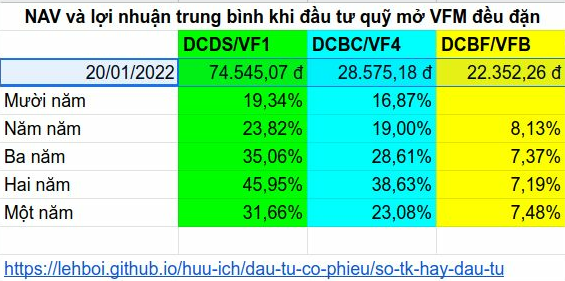
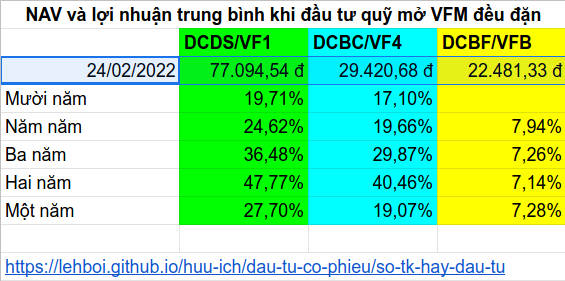
update periodically

diff --git a/kinh-nghiem/linh-tinh/lau-nha.html b/kinh-nghiem/linh-tinh/lau-nha.html
@@ -302,19 +302,21 @@ data-ad-slot="5275186684">
   <div overflow=""></div>
 </amp-ad>
 
-<h3>Cây-lau-nhà công-nghiệp</h3>
-<div class="flright"><amp-img alt="cây-lau-nhà công-nghiệp" src="/images/cay-lau-chu-nhat.webp" width="400" height="400" layout="responsive"></amp-img></div>
-<p>Ở các nơi công-cộng thì thường gặp cây-lau-nhà kiểu khác, được gọi là cây-lau-nhà công-nghiệp.
+<h3>Cây-lau-nhà chữ-nhật</h3>
+<div class="flright"><amp-img alt="cây-lau-nhà chữ-nhật" src="/images/cay-lau-chu-nhat.webp" width="400" height="400" layout="responsive"></amp-img></div>
+<p>Ở các nơi công-cộng thì thường gặp cây-lau-nhà kiểu khác, được gọi là cây-lau-nhà công-nghiệp, hoặc cây-lau-nhà chữ-nhật.
 <br>Kiểu này gắn miếng giẻ-lau hình-chữ-nhật, hai đầu giẻ-lau có thêm một lớp vải thứ hai tạo thành hai cái túi sâu khoảng tám phân. Mặt giẻ-lau có nhiều sợi vải ngắn trông giống đám san-hô nên kiểu dụng-cụ lau-nhà này còn được gọi là cây-lau-nhà san-hô. Cán cây-lau-nhà kiểu này gắn vào một miếng thép hình-chữ-nhật bằng hai khớp-bản-lề để nghiêng được đủ mọi hướng. Một miếng thép hình-chữ-nhật thứ hai nhỏ hơn gắn với miếng thép thứ nhất theo kiểu bản-lề.
-<br>Việc gắn và tháo giẻ-lau ở cây-lau-nhà này rất dễ. Để gắn giẻ-lau, trải miếng giẻ-lau xuống đất, cầm cây-lau-nhà sao cho hai miếng thép gập một góc vừa đủ cho đầu mỗi miếng thép chui vào miệng túi ở một đầu của giẻ-lau, ấn cán cây-lau-nhà xuống thì hai miếng thép sẽ vào khớp thẳng hàng với nhau, không tự gập góc được và giữ giẻ-lau chắc chắn. Để tháo giẻ-lau thì dùng chân đạp lên đầu giẻ-lau bên miếng thép nhỏ, kéo cán cây-lau-nhà lên thì hai miếng thép sẽ gập góc với nhau và rút ra khỏi hai cái túi của giẻ-lau.
-<br>Việc gắn và tháo giẻ-lau nhanh chóng là ưu-điểm để dùng cây-lau-nhà kiểu này ở nơi công cộng. Nhân-viên vệ-sinh đem theo nhiều miếng giẻ-lau đủ để lau sạch một diện-tích lớn, các miếng giẻ-lau đã thấm nước và vắt vừa đủ để sẵn-sàng lau, nhân-viên vệ-sinh lần lượt dùng từng miếng giẻ-lau để lau hết diện-tích sàn, sau đó đem tất-cả những giẻ-lau dơ đi giặt chung một lượt.
-<br>Có thể thấy ưu-điểm của cây-lau-nhà công-nghiệp là mọi phần của sàn-nhà đều sạch như nhau vì đều được lau bằng những miếng giẻ-lau đã được giặt cùng một lượt. Những nơi công-cộng, dùng nhiều giẻ-lau thì có thể giặt giẻ-lau bằng máy-giặt để đỡ tốn sức người. Trong nhà ở gia-đình, chỉ cần khoảng năm tới mười miếng giẻ-lau để lau cả nhà thì có thể giặt bằng tay nếu không muốn dùng máy-giặt.</p>
+<br>Việc gắn và tháo giẻ-lau ở cây-lau-nhà này rất dễ. Để gắn giẻ-lau, trải miếng giẻ-lau xuống đất, cầm cây-lau-nhà sao cho hai miếng thép gập một góc vừa đủ cho đầu mỗi miếng thép chui vào miệng túi ở một đầu của giẻ-lau, ấn cán cây-lau-nhà xuống thì hai miếng thép sẽ vào khớp thẳng hàng với nhau, không tự gập góc được và giữ giẻ-lau chắc chắn. Để tháo giẻ-lau thì dùng chân đạp lên đầu giẻ-lau bên miếng thép nhỏ, kéo cán cây-lau-nhà lên thì hai miếng thép sẽ gập góc với nhau và rút ra khỏi hai cái túi của giẻ-lau. Một kiểu gắn giẻ-lau khác là dùng hai lớp velcro để giẻ lau dính vào đầu cây-lau-nhà.
+<br>Việc gắn và tháo giẻ-lau nhanh chóng là ưu-điểm để dùng cây-lau-nhà kiểu này ở nơi công-cộng. Nhân-viên vệ-sinh đem theo nhiều miếng giẻ-lau đủ để lau sạch một diện-tích lớn, các miếng giẻ-lau đã thấm nước và vắt vừa đủ để sẵn-sàng lau, nhân-viên vệ-sinh lần lượt dùng từng miếng giẻ-lau để lau hết diện-tích sàn, sau đó đem tất-cả những giẻ-lau dơ đi giặt chung một lượt.
+<br>Có thể thấy ưu-điểm của cây-lau-nhà chữ-nhật là mọi phần của sàn-nhà đều sạch như nhau vì đều được lau bằng những miếng giẻ-lau đã được giặt cùng một lượt. Những nơi công-cộng, dùng nhiều giẻ-lau thì có thể giặt giẻ-lau bằng máy-giặt để đỡ tốn sức người. Trong nhà ở gia-đình, chỉ cần khoảng năm tới mười miếng giẻ-lau để lau cả nhà thì có thể giặt bằng tay nếu không muốn dùng máy-giặt.</p>
+<p>Gần-đây có một loại giẻ-lau được làm từ sợi microfiber, được giới-thiệu là <a href="dungcuvesinh.com/gioi-thieu/microfiber-la-gi-khac-biet-voi-cotton/" target='_blank'>lau sạch hơn loại giẻ-lau làm từ sợi cotton</a>.</p>
 
-<p>Để lau-nhà tôi ở sao cho mọi phần sạch đều nhau thì tôi đang dùng nhiều cây-lau-nhà kiểu ly-tâm. Nhà tôi có diện tích 126 mét vuông, tôi dùng năm cây-lau-nhà và một cái xô ly-tâm. Tiếp theo đây tôi viết chi tiết cách lau này.</p>
-
-<h2>Dùng nhiều cây-lau-nhà ly-tâm để lau-nhà sạch đều</h2>
-<h3 id="pha">Pha nước-lau-sàn</h3>
-<p>Nước-lau-sàn là một loại chất tẩy rửa với tác-dụng chính là làm cho bụi bẩn dễ rời khỏi sàn nhà, tác-dụng phụ là để lại mùi thơm một lúc sau khi lau.</p>
+<h2>Lau-nhà sao-cho sạch đều</h2>
+<p>Nhà tôi có diện tích 126 mét vuông.</p>
+<h3>Dùng nhiều cây-lau-nhà ly-tâm</h3>
+<p>Để lau-nhà tôi ở sao cho mọi phần sạch đều nhau thì tôi đang dùng nhiều cây-lau-nhà kiểu ly-tâm. Tôi dùng năm cây-lau-nhà và một cái xô ly-tâm. Tiếp theo đây tôi viết chi tiết cách lau này.</p>
+<h4 id="pha">Pha nước-lau-sàn</h4>
+<p>Nước-lau-sàn là một loại chất tẩy rửa với tác-dụng chính là làm cho bụi bẩn dễ rời khỏi sàn-nhà, tác-dụng phụ là để lại mùi thơm một lúc sau khi lau.</p>
 <p>Đọc kỹ hướng-dẫn-sử-dụng in trên các chai hay bịch nước-lau-sàn ta sẽ thấy những điều không hợp-lý. Nguyên văn một lời hướng-dẫn-sử-dụng như sau: "Hoà một nắp đầy nước-lau-sàn vào nửa xô nước (loại xô 5 lít)."
 <br>Lời hướng-dẫn trên không chính-xác vì cái xô năm lít rất nhỏ, nó sẽ là một cái xô tròn cao khoảng 19 phân và đường kính đáy khoảng 19 phân. Không thể dùng cái xô nhỏ như vậy để lau-nhà với các cây-lau-nhà, cũng rất khó dùng khi lau-nhà bằng tay và giẻ-lau. Một điều không hợp-lý nữa là nửa xô năm lít thì quá ít nước.
 <br>Không chính-xác là một lỗi rất thường gặp ở các sản-phẩm thông-dụng ở Việt-Nam. Lời hướng-dẫn-sử-dụng trên được in trên nhãn của hai hiệu nước-lau-sàn của hai công-ty khác nhau, một công-ty đa-quốc-gia và một công-ty nội-địa, đây là trường-hợp copy bài của bạn 😄.</p>
@@ -331,25 +333,35 @@ data-ad-slot="5275186684">
   <div overflow=""></div>
 </amp-ad>
 
-<h3 id="lau">Lau-nhà một lần</h3>
+<h4 id="lau">Lau-nhà một lần</h4>
 <p><b>Tại-sao tôi chỉ dùng có năm lít nước để lau-nhà?</b>
 <br>Lượng nước đó vẫn còn dư khoảng một nửa sau khi thấm ướt giẻ-lau của năm cây-lau-nhà. Với cách lau-nhà tôi sắp viết ra dưới đây thì lượng nước còn dư lại trong xô sau khi thấm ướt các giẻ-lau sẽ không có tác-dụng làm sạch sàn-nhà. Nếu tôi dùng nhiều nước-máy hơn thì tôi phải pha nhiều nước-lau-sàn hơn theo tỷ-lệ, như vậy thì phí nước-lau-sàn, nước-lau-sàn đổ xuống cống nhiều hơn sẽ tốn nhiều công hơn để xử-lý.</p>
 <p>Sau khi đã thấm ướt giẻ-lau của năm cây-lau-nhà và vắt bớt nước, tôi dùng từng cây để lau từng phòng trong nhà, phòng nhỏ thì dùng một cây lau hai phòng. Tôi chỉ lau một lần chứ không lau lại với nước khác, nhưng mỗi ô gạch được giẻ-lau đẩy qua lại vài lần trong một lần lau đó.
-<h3 id="xa">Xả sạch ba lần</h3>
+<h4 id="xa">Xả sạch ba lần</h4>
 <p>Lau hết cả nhà với năm cây-lau-nhà, tôi hứng thêm nước-máy vào cái xô ly-tâm đến vạch tối-đa của xô (thấp hơn đáy rổ ly-tâm khoảng ba phân) rồi xả từng cây-lau-nhà, cây nào lau phòng ít dơ nhất thì xả trước. Một ít nước-lau-sàn còn lại trong xô sẽ góp thêm tác-dụng tách bụi bẩn ra khỏi giẻ-lau. Xả hết năm cây-lau-nhà, tôi đổ nước dơ xuống cống và hứng nước-máy sạch để xả tiếp. Mỗi cây-lau-nhà được xả ba lần sẽ sạch như mới. Nếu giẻ-lau không được xả sạch sau khi lau, nó sẽ giữ lại bụi bẩn và nhanh chóng đổi sang màu-giẻ-lau 😄.
 <br>Tôi không cần phải nhúng tay vào nước khi xả cây-lau-nhà ly-tâm, tôi chỉ cần nắm cán của nó kéo lên và ấn xuống cho giẻ-lau bị giũ trong xô nước khoảng 30 lần, kế đó tôi cho giẻ lau vào rổ ly-tâm và ấn cán cây-lau-nhà khoảng 15 lần.</p>
 <p>Như đã viết ở trên, ưu-điểm của cách lau-nhà này là mọi chỗ trong nhà đều sạch như nhau vì đều được lau bằng một cây lau-nhà sạch. Diện-tích nhà 126 mét vuông trừ đi diện-tích gầm giường và gầm tủ thì mỗi cây-lau-nhà chỉ lau không quá 20 mét vuông. Nếu chỉ dùng một cây-lau-nhà, lau cả nhà sạch đều như nhau sẽ tốn nhiều công, nhiều nước-máy và nước-lau-sàn hơn vì sau khi lau một phần năm căn nhà, tôi phải xả cây-lau-nhà ba lần rồi pha lại nước-lau-sàn, như-vậy tốn nước-lau-sàn và nước-máy gấp năm lần.</p>
 
-<h2>Nên dùng cây-lau-nhà ly-tâm hay cây-lau-nhà công-nghiệp trong nhà ở gia-đình?</h2>
-<p>Tôi chưa dùng cây-lau-nhà công-nghiệp nên chưa có kinh-nghiệm thực tế, nhưng tôi cho rằng cây-lau-nhà công-nghiệp có những ưu-điểm sau:
+<h3>Dùng cây-lau-nhà chữ-nhật</h3>
+<p>Sau khi các cây-lau-nhà ly-tâm bị hư, tôi đổi qua dùng cây-lau-nhà chữ-nhật. Tôi dùng một cây-lau-nhà với năm miếng giẻ-lau, cả hai loại: microfiber và cotton.</p>
+<h4>Pha nước-lau-sàn</h4>
+<p>Tôi bắt-chước cách lau-nhà của cô nhân-viên trong khu nhà tôi ở: cô ta không nhúng những miếng giẻ-lau vào xô nước trước khi lau mà cô ta pha nước-lau-sàn vào một bình-xịt cỡ một lít và xịt lên từng tấm giẻ-lau trước khi lau. Các tấm giẻ-lau đã được giặt sạch và phơi khô, chỉ cần xịt khoảng 70 ml nước pha nước-lau-sàn là đủ ẩm để lau khoảng 15 mét vuông. Như-vậy tôi chỉ cần pha 25 ml nước lau-sàn với 325 ml nước để xịt năm miếng giẻ-lau. Theo cách này thì lượng nước-lau-sàn tác-dụng lên sàn-nhà sẽ nhiều hơn so với cách nhúng giẻ-lau.</p>
+<h4>Lau-nhà một lần</h4>
+<p>Lau từng phòng trong nhà với từng miếng giẻ-lau đã xịt đủ ẩm. Đẩy cây-lau-nhà chữ-nhật tốn nhiều sức hơn cây-lau-nhà ly-tâm vì diện-tích giẻ-lau lớn hơn, và càng tốn nhiều sức hơn nữa khi dùng giẻ-lau microfiber vì lực ma-sát giữa giẻ-lau và sàn-nhà lớn hơn. Khi dùng giẻ-lau microfiber thì chỉ lau khi <b>đẩy</b> cây-lau-nhà, không thể lau khi <b>kéo</b> cây-lau-nhà vì lực ma-sát kết-hợp với lực kéo sẽ làm miếng giẻ-lau bị lật mặt lên trên. Nếu miếng giẻ-lau microfiber được xịt nhiều nước hơn thì sẽ dễ lau hơn, nhưng nếu nhiều nước quá thì sẽ để lại nước trên sàn-nhà.</p>
+<p>Do sàn-nhà tôi không quá dơ, chỉ có bụi, không có dầu-mỡ hay bùn-đất nên không thấy được sự-khác-nhau giữa giẻ-lau microfiber và giẻ-lau cotton. Các bạn cũng không cần dùng giẻ-lau microfiber nếu sàn-nhà không quá dơ.</p>
+<h4>Giặt giẻ-lau</h4>
+<p>Các miếng giẻ-lau được tháo ra khỏi cây-lau-nhà, được xịt bằng vòi xịt nước mạnh để trôi bớt bụi bẩn, sau đó được cho vào chậu nước pha xà-bông, chà bằng bàn-chải và xả ba lần, giặt-xả xong rồi thì vắt ráo nước và treo chỗ thoáng cho khô.</p>
+
+<h2>Nên dùng cây-lau-nhà ly-tâm hay cây-lau-nhà chữ-nhật trong nhà ở gia-đình?</h2>
+<p>Theo tôi cây-lau-nhà chữ-nhật có những ưu-điểm sau:
 <ul>
 <li>tốn ít tiền hơn vì chỉ cần mua một cây-lau-nhà với vài miếng giẻ-lau,</li>
 <li>bền hơn vì cấu-tạo đơn-giản hơn,</li>
 <li>lau sạch hơn vì toàn-bộ diện-tích giẻ-lau đều bị đè sát vào sàn-nhà, trong khi một-phần giẻ-lau của cây-lau-nhà ly-tâm xoè ra ngoài đĩa nhựa nên không bị đè sát vào sàn-nhà,</li>
 <li>lau góc nhà dễ hơn vì giẻ-lau có hình-chữ-nhật khớp với góc nhà.</li>
 </ul>
-<p>Nhược-điểm của cây-lau-nhà công-nghiệp là phải xả và vắt giẻ-lau bằng tay. Hoặc không cảm-thấy thoải-mái khi dùng máy-giặt quần áo để giặt giẻ-lau. Có loại thùng ép để vắt giẻ-lau cho cây-lau-nhà công-nghiệp, nhưng tôi cho rằng việc ép đó không làm ráo nước bằng việc ly-tâm.</p>
-<p>Khi các cây-lau-nhà đang dùng bị hư, tôi sẽ đổi qua dùng cây-lau-nhà công-nghiệp.</p>
+<p>Nhược-điểm của cây-lau-nhà chữ-nhật là phải giặt, xả và vắt giẻ-lau bằng tay. Hoặc không cảm-thấy thoải-mái khi dùng máy-giặt quần áo để giặt giẻ-lau. Có loại thùng ép để vắt giẻ-lau cho cây-lau-nhà chữ-nhật, nhưng tôi cho rằng việc ép đó không làm ráo nước bằng việc ly-tâm và không làm sạch giẻ-lau.</p>
+
 <div class="todiscuss">
 Các bài liên quan:
 <br>* <a href="/kinh-nghiem/linh-tinh/">Những kinh-nghiệm khác</a>

diff --git a/huu-ich/dau-tu-co-phieu/so-tk-hay-dau-tu.html b/huu-ich/dau-tu-co-phieu/so-tk-hay-dau-tu.html
@@ -260,25 +260,25 @@ data-ad-slot="5275186684">
   <p>Các nhà kinh tế nói rằng đầu tư dài hạn vào quỹ đầu tư sẽ có lợi hơn gửi tiết kiệm ở ngân hàng. Lý thuyết đó có đúng trong thực tế không, và nhất là có đúng với thị trường Việt Nam không?</p>
   <h2>Kết quả thực tế</h2>
   <p>Trong bài này, tôi sẽ so sánh kết quả giữa hai phương tiện trên bằng những tính toán trên những số liệu thực tế trong một thời gian dài hơn 13 năm.
-  <br>Thời điểm bắt đầu tính là đầu năm 2009. Từ ngày đó đến ngày 30/12/2021 <!-- Chung!A3 -->
+  <br>Thời điểm bắt đầu tính là đầu năm 2009. Từ ngày đó đến ngày 24/02/2022 <!-- Chung!A3 -->
  là hơn 13 năm.</p>
-  <p>Giả sử anh A tích luỹ tiền bằng cách gửi tiết kiệm ở ngân hàng. Bắt đầu từ đầu năm 2009, mỗi bốn tuần (mỗi năm 13 lần ứng với 13 tháng lương) anh A gửi một triệu đồng vào một sổ tiết kiệm kỳ hạn 12 tháng ở Ngân hàng Ngoại thương Việt Nam, khi đáo hạn sổ đó thì nhập lãi vào gốc để gửi tiếp kỳ mới. Số tiền anh A đã gửi vào là 170 <!-- tiết!B2 -->
- triệu đồng. Vào ngày 30/12/2021 <!-- tiết!A2 -->
- tổng giá trị gốc và lãi là <b> 262,761 <!-- tiết!C2 -->
- triệu đồng</b>, tính ra lợi nhuận trung bình của việc tích luỹ này là <b> 6,47%/năm <!-- tiết!C1 -->
+  <p>Giả sử anh A tích luỹ tiền bằng cách gửi tiết kiệm ở ngân hàng. Bắt đầu từ đầu năm 2009, mỗi bốn tuần (mỗi năm 13 lần ứng với 13 tháng lương) anh A gửi một triệu đồng vào một sổ tiết kiệm kỳ hạn 12 tháng ở Ngân hàng Ngoại thương Việt Nam, khi đáo hạn sổ đó thì nhập lãi vào gốc để gửi tiếp kỳ mới. Số tiền anh A đã gửi vào là 172 <!-- tiết!B2 -->
+ triệu đồng. Vào ngày 24/02/2022 <!-- tiết!A2 -->
+ tổng giá trị gốc và lãi là <b> 266,824 <!-- tiết!C2 -->
+ triệu đồng</b>, tính ra lợi nhuận trung bình của việc tích luỹ này là <b> 6,45%/năm <!-- tiết!C1 -->
 
 </b>. Mặc dù trong 13 năm qua có những lúc lãi suất tiết kiệm lên đến 14%/năm, nhưng do anh A gửi góp theo thời gian nên những khoản tiền gửi trễ sinh ra ít tiền lãi hơn những khoản tiền gửi sớm. Lợi nhuận trung bình đó đang giảm dần vì lãi suất tiết kiệm đã thấp hơn số trung bình đó từ bảy năm nay. Số liệu tính toán <a href="https://docs.google.com/spreadsheets/d/1y8MlFiTKj5W-iJn-okNu5DF4hlFQX-dK-xxNzhUHDh4/edit?usp=sharing" target='_blank'>trong bảng tính này</a>.</p>
 
-  <p>Giả sử anh B tích luỹ tiền bằng quĩ đầu tư VF1. Bắt đầu từ đầu năm 2009 mỗi bốn tuần anh B gửi một triệu đồng vào quỹ <b>VF1</b>. Số tiền anh B đã gửi vào cũng là 170 <!-- tiết!B2 -->
- triệu đồng như anh A. Vào ngày 30/12/2021 <!-- Chung!A3 -->
- giá trị tài khoản đầu tư của anh B là <b> 591,117 <!-- DCDS!J4 -->
- triệu đồng</b>. Lợi nhuận trung bình của việc tích luỹ này là <span class="red"><b> 17,76%/năm <!-- DCDS!J2 -->
+  <p>Giả sử anh B tích luỹ tiền bằng quĩ đầu tư VF1. Bắt đầu từ đầu năm 2009 mỗi bốn tuần anh B gửi một triệu đồng vào quỹ <b>VF1</b>. Số tiền anh B đã gửi vào cũng là 172 <!-- tiết!B2 -->
+ triệu đồng như anh A. Vào ngày 24/02/2022 <!-- Chung!A3 -->
+ giá trị tài khoản đầu tư của anh B là <b> 585,298 <!-- DCDS!J4 -->
+ triệu đồng</b>. Lợi nhuận trung bình của việc tích luỹ này là <span class="red"><b> 17,24%/năm <!-- DCDS!J2 -->
  </b></span>.</p>
 
   <p>Bảng dưới đây cho biết lợi nhuận trung bình của mọi khoản đầu tư đều đặn vào những quỹ đầu tư trong 10/5/3/2/1 năm qua.</p>
   <div><amp-img alt="Kết quả đầu tư đều đặn" src="/data/VFM.png" height="281" width="565" layout="responsive"></amp-img></a></div>
 
-  <p>Trong thực tế thì số tiền anh A có chắc chắn phải thấp hơn 262,761 <!-- tiết!C2 -->
+  <p>Trong thực tế thì số tiền anh A có chắc chắn phải thấp hơn 266,824 <!-- tiết!C2 -->
  triệu đồng vì:</p>
   <ol>
     <li>Tiền lãi khi đáo hạn sẽ bị làm tròn xuống đến hàng ngàn, và những tiền lẻ dưới chục ngàn hoặc trăm ngàn sẽ không được nhập vào gốc để sinh lời tiếp vì anh A thấy nó lẻ.</li>
@@ -286,7 +286,7 @@ data-ad-slot="5275186684">
     <li>Không dễ để nhớ gửi tiền tiết kiệm đều đặn nhưng lại rất dễ để rút tiền ra dùng khi cần mua sắm iPhone, LED TV, scooter làm cho số tiền bị hao hụt nhiều.</li>
   </ol>
 
-  <p>Ngoài ra, khi gửi ngân hàng kiểu đó thì anh A phải giữ từ 14 đến 170 <!-- tiết!B2 -->
+  <p>Ngoài ra, khi gửi ngân hàng kiểu đó thì anh A phải giữ từ 14 đến 172 <!-- tiết!B2 -->
  sổ tiết kiệm. Có thời gian tôi cũng làm như vậy (online) và tôi cảm thấy vô cùng lúng túng với hàng loạt con số trên màn hình. Trong khi đó đầu tư vào quỹ đầu tư thì mỗi người chỉ cần biết một vài con số.
   <br>Ngân hàng cũng có một loại tiết kiệm mà không tạo ra nhiều sổ, đó là tiết kiệm gửi góp. Tôi khuyên các bạn đừng dùng các loại tiết kiệm gửi góp của các ngân hàng. Mặc dù nó có vẻ giống như các kế hoạch đầu tư ở chỗ góp tiền vào một tài khoản, nhưng các ngân hàng không chuyên quản lý sổ tiết kiệm dài hạn và họ cũng không thích việc đó nên lãi suất dạng đó thấp hơn lãi suất 12 tháng. Tôi đã có một kinh nghiệm không vui với loại tiết kiệm gửi góp đó, sẽ kể lại trong một trang khác.</p>
 
@@ -308,10 +308,10 @@ data-ad-slot="5275186684">
   <p>Các con số lãi suất ở trên là lãi kép nên thời gian càng dài thì kết quả càng lớn. Ví dụ với lãi suất như trên, gửi mỗi bốn tuần một triệu đồng sau 30 năm sẽ từ 390 triệu đồng:</p>
   <span class="red">
   <ul>
-    <li>được khoảng 1,009 <!-- So!A4 -->
+    <li>được khoảng 1,008 <!-- So!A4 -->
  tỉ đồng nếu gửi ngân hàng</li>
-    <li>được khoảng 10,704 <!-- So!A7 -->
- tỉ đồng nếu gửi quỹ đầu tư, <b>bằng 10,60 <!-- So!A8 -->
+    <li>được khoảng 9,636 <!-- So!A7 -->
+ tỉ đồng nếu gửi quỹ đầu tư, <b>bằng 9,55 <!-- So!A8 -->
  lần gửi ngân hàng</b></li>
   </ul>
   </span>
@@ -343,15 +343,15 @@ data-ad-slot="5275186684">
 </amp-ad>
 
   <h2 id="goldusd">Tiết kiệm bằng USD hoặc vàng có tốt hơn không?</h2>
-  <p>Tôi giả định rằng chị U mua 100 USD mỗi bốn tuần từ đầu năm 2009 đến nay chị U có 17.000 <!-- Gold!J3 -->
- USD tương đương 384,880 <!-- Gold!L4 -->
- triệu đồng và chị U đã bỏ ra hết 365,419 <!-- Gold!K3 -->
+  <p>Tôi giả định rằng chị U mua 100 USD mỗi bốn tuần từ đầu năm 2009 đến nay chị U có 17.200 <!-- Gold!J3 -->
+ USD tương đương 390,096 <!-- Gold!L4 -->
+ triệu đồng và chị U đã bỏ ra hết 369,937 <!-- Gold!K3 -->
  triệu đồng, tính ra lợi nhuận trung bình của việc tích luỹ này là 0,84%/năm <!-- Gold!L2 -->
 .
-  <br>Lại giả định tiếp, từ đầu năm 2009 đến nay mỗi bốn tuần chị G dùng 100 USD mua một số gram vàng lẻ đến một phần triệu gram. Đến nay chị G có 394,705 <!-- Gold!I4 -->
- gram vàng, trị giá 22.916,55 <!-- Gold!J4 -->
- USD. Như vậy với cùng số tiền bỏ ra như chị U, nhưng chị G thu lại được nhiều hơn 34,80% <!-- Gold!L3 -->
- và  lợi nhuận trung bình của việc tích luỹ này là 5,51%/năm <!-- Gold!K2 -->
+  <br>Lại giả định tiếp, từ đầu năm 2009 đến nay mỗi bốn tuần chị G dùng 100 USD mua một số gram vàng lẻ đến một phần triệu gram. Đến nay chị G có 398,033 <!-- Gold!I4 -->
+ gram vàng, trị giá 24.777,52 <!-- Gold!J4 -->
+ USD. Như vậy với cùng số tiền bỏ ra như chị U, nhưng chị G thu lại được nhiều hơn 44,06% <!-- Gold!L3 -->
+ và  lợi nhuận trung bình của việc tích luỹ này là 6,38%/năm <!-- Gold!K2 -->
 , thấp hơn gửi tiết kiệm VND và thấp hơn tích luỹ bằng quỹ đầu tư. Lợi nhuận trung bình này có lẽ cũng tương đương mức trượt giá trung bình trong cùng thời gian, điều đó cho thấy tích luỹ bằng vàng không có lời.
   <br>Các số liệu về tỷ giá USD-VND và giá vàng từ đầu năm 2009 đến nay được lấy từ website Vietcombank.com.vn và www.gold.org.</p>
   <p>Bảng dưới đây so sánh lợi nhuận trung bình của việc đầu tư đều đặn vào các kênh từ năm 2009.</p>
